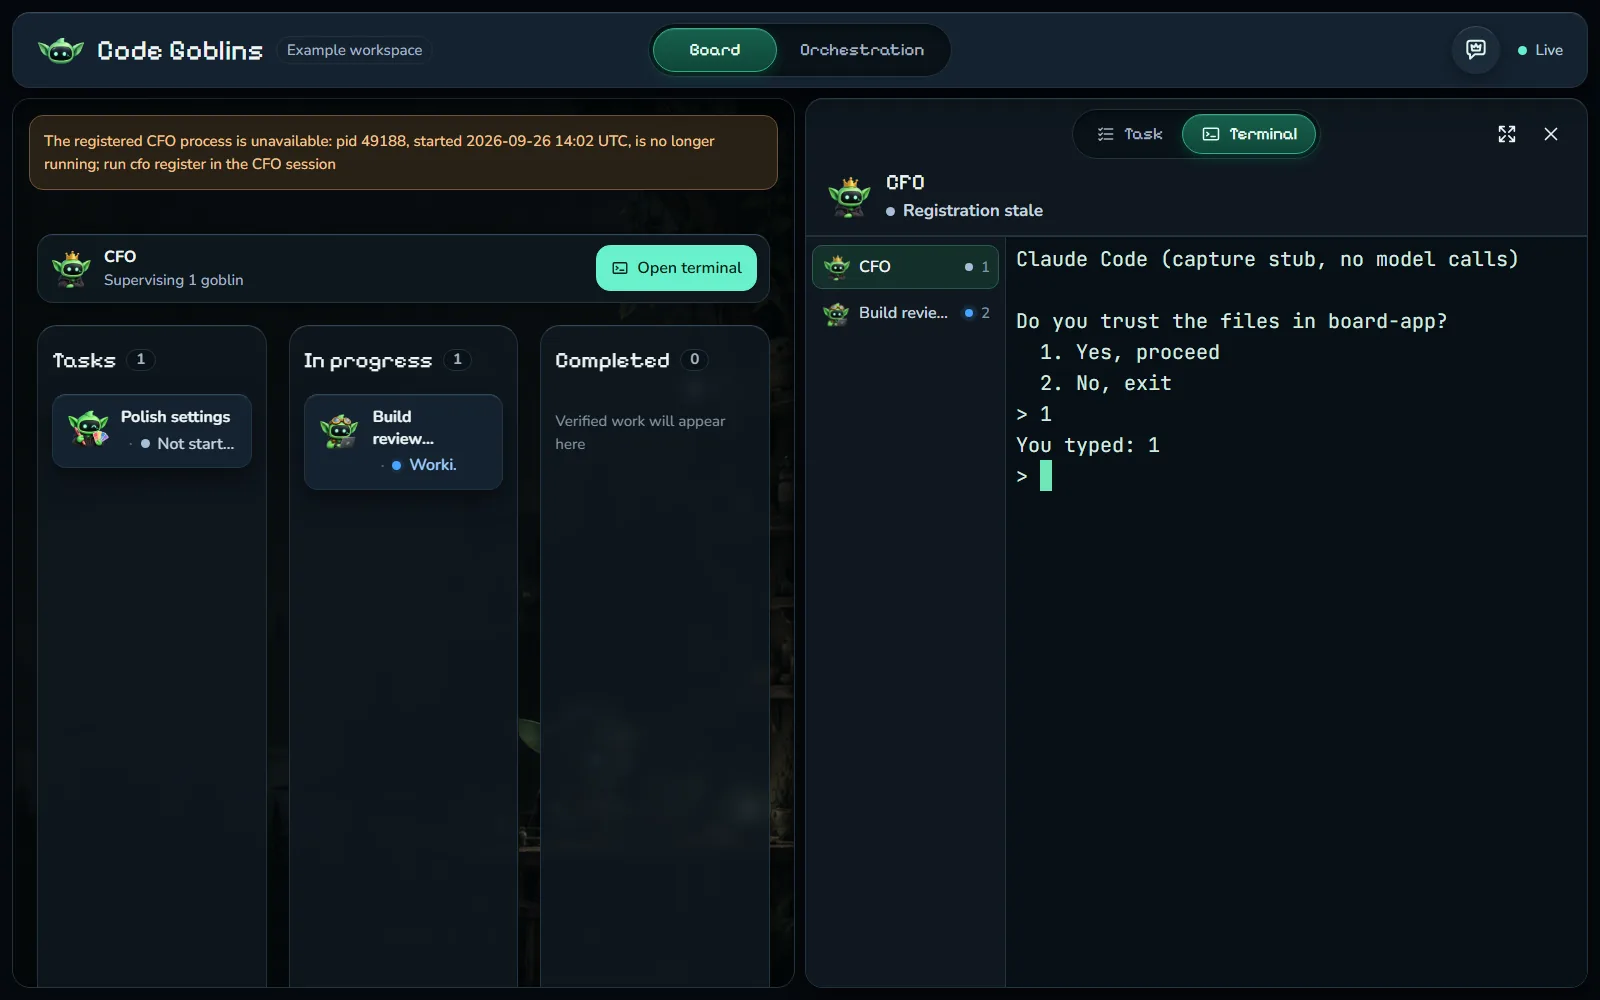
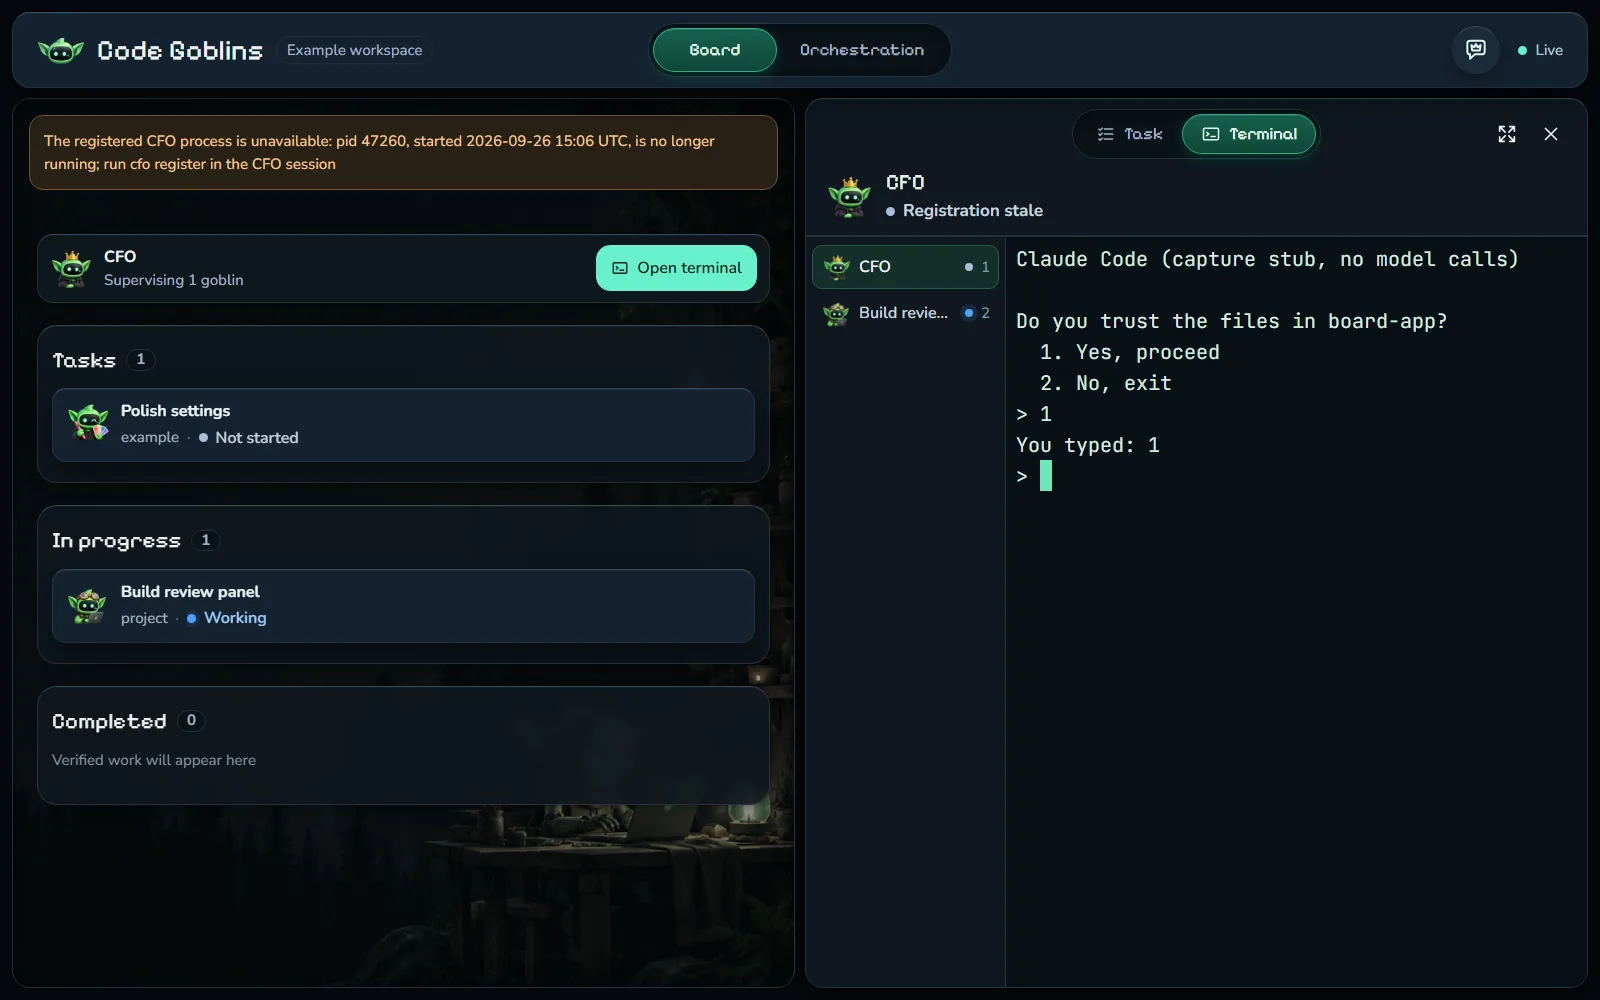
docs(board): describe the first-run page at the board's root, with captures

diff --git a/README.md b/README.md
@@ -160,7 +160,7 @@ In an attached terminal every key goes to the CFO, Ctrl-C included, and Ctrl-] l
 
 Run `goblins` in the project you actually want to build, or anywhere to pick one from your projects folder: it starts Claude Code as the CFO there, in Herdr, and brings you to it.
 Only a CFO in Claude Code is woken by the fleet today, through its Stop hook: a CFO run in Codex or pi learns what goblins finished or asked only when you next prompt it.
-Without a terminal, the board's first-run page at `/start` does the same: pick the folder that holds your projects, the project the CFO starts in and the agent, then **Start the CFO**, and it opens in the board's terminal.
+Without a terminal, the board does the same: whenever no CFO runs, its page shows the first-run screen, where you pick the folder that holds your projects, the project the CFO starts in and the agent, then **Start the CFO**, and it opens in the board's terminal.
 The page starts only Claude Code as the CFO, for the same reason, and still shows Codex and Pi with whether each is installed and signed in.
 
 Tell the CFO what outcome you want.
@@ -191,7 +191,7 @@ Hook setup, evidence rules and terminal limits are in [the native board guide](d
 
 The header switches between two views, one at a time, each with a contextual panel on the right.
 
-- **Board** is task review. Real tasks sit in **Tasks**, **In progress** and **Completed**. Only verified delivery reaches Completed; failed work and work awaiting review stay in progress with a plain status. Selecting a card opens its changes (only the changed lines for a file over 256 KiB), activity and commit history. The CFO is pinned above the columns: its bar says what it needs from you, the first question or review waiting and how many more, or else how many goblins it supervises, and **Open terminal** opens its terminal. A goblin waiting on you says Waiting on the CFO, since the CFO brings every question to you, until your answer reaches it.
+- **Board** is task review. Real tasks sit in **Tasks**, **In progress** and **Completed**. Only verified delivery reaches Completed; failed work and work awaiting review stay in progress with a plain status. Selecting a card opens its changes (only the changed lines for a file over 256 KiB), activity and commit history. The CFO is pinned above the columns: its bar says what it needs from you, the first question or review waiting and how many more, or else how many goblins it supervises, and **Open terminal** opens its terminal. While no CFO runs the board shows the first-run screen instead; **Open the board without a CFO** keeps the goblins in view, and the bar then offers **Start the CFO**. A goblin waiting on you says Waiting on the CFO, since the CFO brings every question to you, until your answer reaches it.
 - **Orchestration** is the live family tree: the CFO above its goblins and any child sessions they reported. The panel shows the selected session's real native terminal and starts on the CFO, whose terminal is shown from its host when the CFO runs in a native terminal. Dragging cards, panning, zooming, **Fit** and **Arrange** change only the layout, because parentage comes from native session evidence. A brief pulse along a connector marks a real accepted message.
 
 <p align="center">

diff --git a/docs/native-board.md b/docs/native-board.md
@@ -270,11 +270,12 @@ A goblin whose no-mistakes gate owns its task is refused with the gate's reason,
 A board without Windows Terminal, or a terminal it cannot prove, says why under the button.
 With no CFO registered, `goblins` and `cfo attach` show native terminal `cfo` while its host answers, since the CFO started there may not have registered yet; a CFO registered in Herdr always comes first.
 The board follows the same rule for the CFO's panel, so a CFO the first-run page started can be answered there, for example Claude Code asking whether to trust its folder, before it registers.
-The first-run page at `/start` lists the git checkouts directly in a projects folder, opening on the recorded `CFO_PROJECTS_ROOT`, and shows Claude Code, Codex and Pi with whether each is on PATH and has a saved sign-in (`~/.claude/.credentials.json`, `~/.codex/auth.json`, `~/.pi/agent/auth.json`).
+The board's root shows the first-run page whenever no CFO runs (the snapshot's `cfo_runs`: a CFO registered and running, or native terminal `cfo` up for one that is starting) and the normal board once one does, with no path of its own, so an installer or shortcut that opens the board's root lands on it.
+The page lists the git checkouts directly in a projects folder, opening on the recorded `CFO_PROJECTS_ROOT`, and shows Claude Code, Codex and Pi with whether each is on PATH and has a saved sign-in (`~/.claude/.credentials.json`, `~/.codex/auth.json`, `~/.pi/agent/auth.json`).
 Start records a new folder as the machine's projects root, as `cfo install --projects-root` does, and starts Claude Code as the CFO in native terminal `cfo` in the picked project, as `goblins --native` does.
 Only Claude Code can start today, since goblins can wake only a Claude Code CFO, and a Claude Code the terminal cannot start itself (anything but `claude.exe`) says so.
 Start is refused, with the reason, while a CFO runs or is starting, for a folder without a checkout, and for a project that is not one of its checkouts; an example board (`cfo serve --example`) records the folder for itself alone, never as the machine's setting.
-The CFO bar offers Start the CFO in place of Open terminal while no CFO is registered or starting.
+After Start the board shows at once with the CFO's terminal open. A quiet link, Open the board without a CFO, shows the board while none runs, so goblins at work stay in view, and the CFO bar then offers Start the CFO in place of Open terminal, which leads back to the first-run page.
 Keys pass through raw, the terminal follows the console's size, and Ctrl-] leaves it running, whether the console sends that key as a byte or as a Windows key event.
 A host refuses to start for a terminal that already runs, so a second start never takes over the first one's record.
 `cfo peek` of a native terminal reads its screen from its console, exactly as the terminal's program would read it, rather than rendering the terminal's output: the rows written, without trailing blanks.
